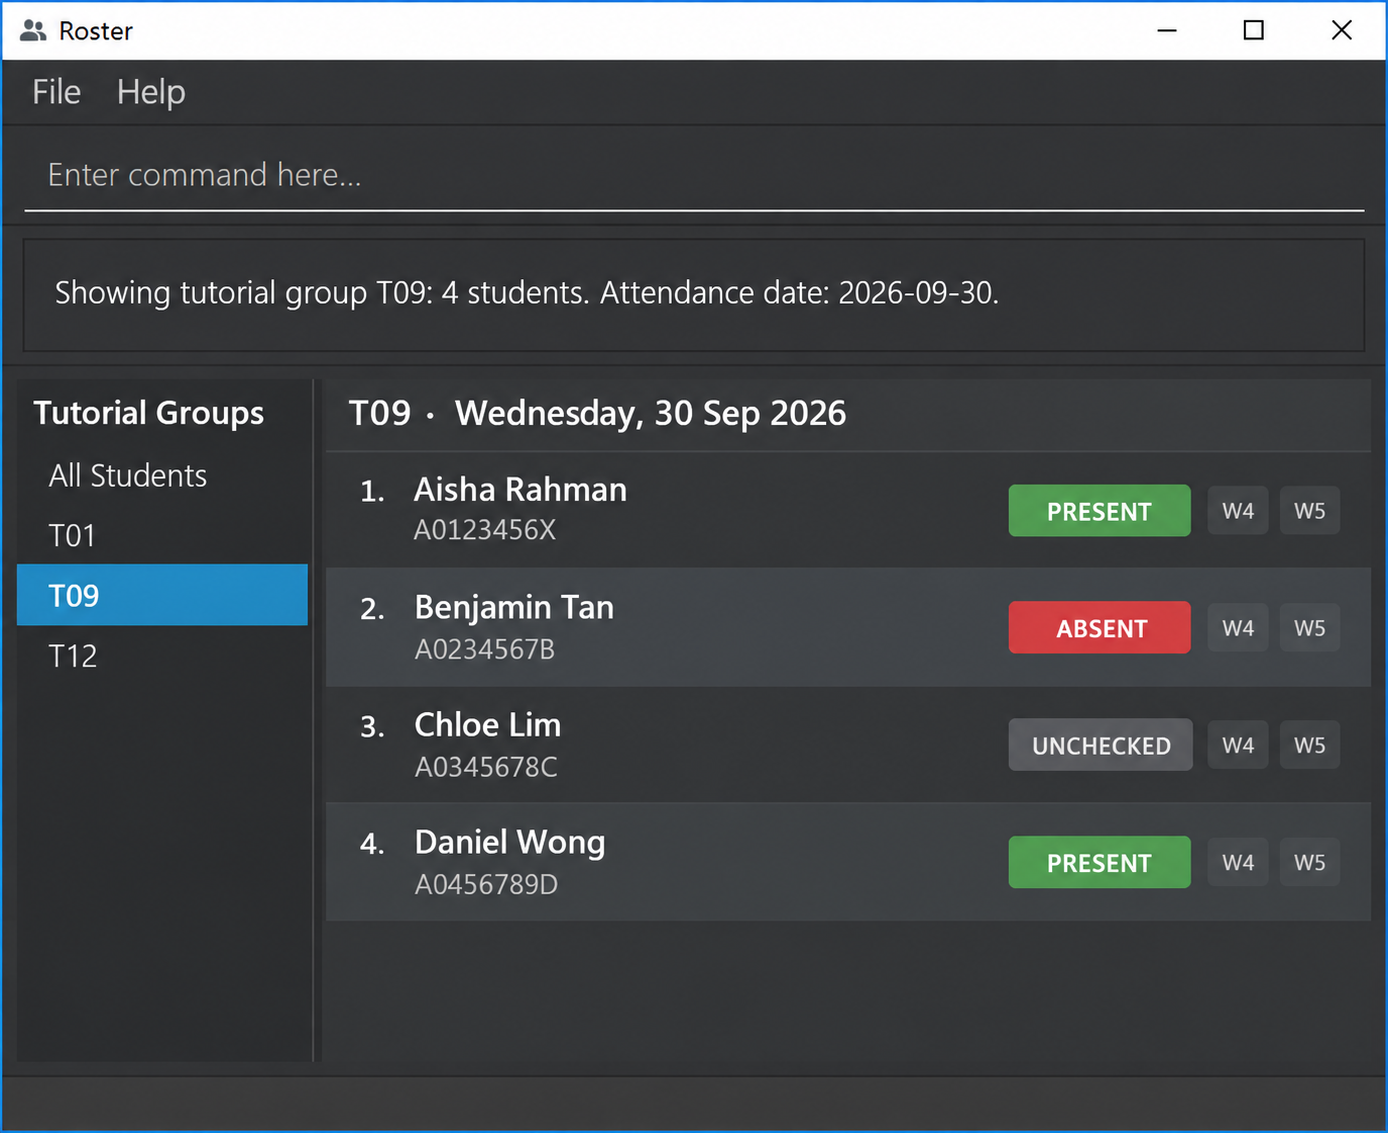
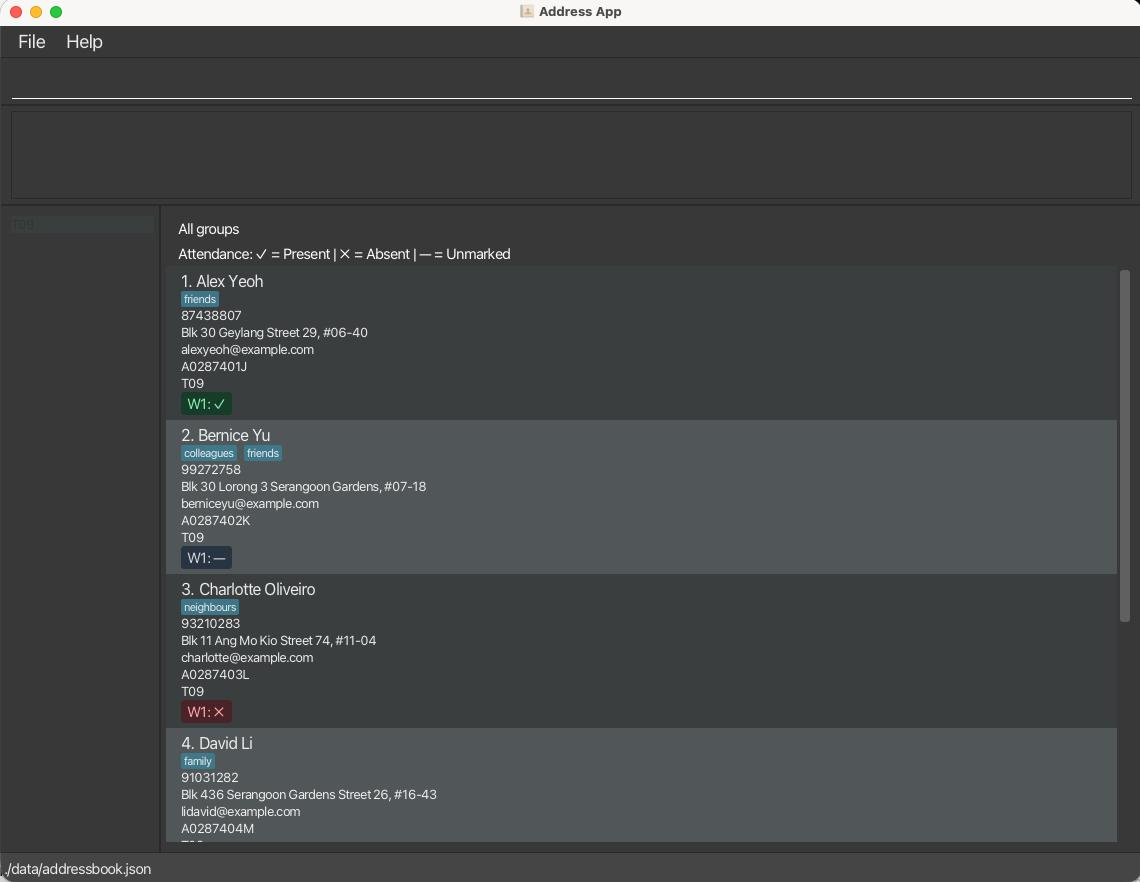
Fix User Guide command documentation and update UI screenshot

diff --git a/docs/UserGuide.md b/docs/UserGuide.md
@@ -19,7 +19,7 @@ Roster is a **desktop application for NUS teaching assistants to manage students
 
 1. Copy the file to the folder you want to use as Roster's _home folder_.
 
-1. Open a terminal, `cd` to the folder containing the JAR file, and run `java -jar addressbook.jar`.<br>
+1. Open a terminal, `cd` to the folder containing the JAR file, and run `java -jar roster.jar`.<br>
    A GUI similar to the one below should appear in a few seconds. Roster includes sample data on its first launch.<br>
    ![Roster user interface](images/Ui.png)
 
@@ -28,7 +28,7 @@ Roster is a **desktop application for NUS teaching assistants to manage students
 1. Try this typical attendance workflow:
 
    * `init grp/T09` : Creates tutorial group `T09`.
-   * `add n/Alex Tan m/A0123456X grp/T09 e/alex.tan@example.com` : Adds Alex Tan to `T09`.
+   * `add n/Alex Tan p/12345678 e/alex.tan@example.com a/Kent Ridge m/A0123456X grp/T09` : Adds Alex Tan to `T09`.
    * `session grp/T09 w/5 d/2026-09-15` : Creates the week 5 session for `T09`.
    * `list grp/T09` : Shows the students in `T09` and makes it the active group.
    * `mark 1 w/5 s/present` : Marks the first displayed student present for week 5.
@@ -49,8 +49,8 @@ A session records that a tutorial group met during a particular teaching week an
 
 For each session in a student's tutorial group, their attendance is one of three states:
 
-* **Present (`P`)**: The student has been marked present.
-* **Absent (`A`)**: The student has been marked absent.
+* **Present (`✓`)**: The student has been marked present.
+* **Absent (`✗`)**: The student has been marked absent.
 * **Unmarked (`—`)**: No attendance has been recorded yet. Unmarked is kept separate from absent so unfinished attendance is not mistaken for a confirmed absence.
 
 Creating a session does not automatically mark any student. A student added after sessions have been created is also unmarked for those earlier sessions.
@@ -98,9 +98,12 @@ The MVP does not support returning a recorded status to unmarked. You can, howev
 Parameter | Accepted value
 ----------|---------------
 `grp/GROUP` | One or two letters followed by two digits, e.g. `T09` or `TG01`. Surrounding spaces are removed and letters are converted to uppercase.
-`n/NAME` | 1–60 characters. Letters, spaces, hyphens, apostrophes and full stops only; must begin with a letter. Surrounding spaces are removed, repeated spaces become one space, and letter case is preserved.
+`n/NAME` | 1–70 characters. Letters, spaces, hyphens and apostrophes only; must begin and end with a letter. Surrounding spaces are removed, repeated spaces become one space, and letter case is preserved.
+`p/PHONE` | At least three digits, with no spaces or other characters.
 `m/MATRIC` | `A`, followed by seven digits and one letter, e.g. `A0287654J`. Surrounding spaces are removed and letters are converted to uppercase.
 `e/EMAIL` | A valid email address such as `alex.tan@example.com`. Surrounding spaces are removed and the address is converted to lowercase.
+`a/ADDRESS` | Any non-blank text.
+`t/TAG` | One or more letters or digits, with no spaces or other characters. Repeat `t/` to give a student multiple tags.
 `w/WEEK` | A whole number from `1` to `13`, without a leading zero.
 `d/DATE` | A real calendar date in `YYYY-MM-DD` format.
 `s/STATUS` | `present` or `absent`, case-insensitive.
@@ -148,20 +151,17 @@ On success, Roster displays a confirmation such as `Created session: T09 week 5 
 
 Adds a student to an existing tutorial group. The student is unmarked for every existing session in that group.
 
-Format: `add n/NAME m/MATRIC grp/GROUP e/EMAIL`
+Format: `add n/NAME p/PHONE e/EMAIL a/ADDRESS m/MATRIC grp/GROUP [t/TAG]...`
 
 Examples:
 
-* `add n/Alex Tan m/A0123456X grp/T09 e/alex.tan@example.com`
+* `add n/Alex Tan p/12345678 e/alex.tan@example.com a/Kent Ridge m/A0123456X grp/T09`
 * The tutorial group must already exist.
 * Matriculation numbers and email addresses must be unique across all tutorial groups.
 * Names do not need to be unique because different students may share a name.
 
 On success, Roster displays a confirmation such as `Added Alex Tan (A0123456X) to tutorial group T09.`
 
-<div markdown="span" class="alert alert-info">:information_source: **Editing student details:**
-The `edit` command is not part of the MVP. To correct a student's details, delete the student and add them again. Deleting a student also deletes all of their attendance records.
-</div>
 
 ### Listing students: `list`
 
@@ -262,7 +262,7 @@ Examples:
 * `STATUS` must be either `present` or `absent`, case-insensitive.
 * Marking an already marked student replaces the earlier status and reports the previous value.
 * The displayed list and its indexes stay unchanged after a successful mark.
-* The updated attendance cell changes to `P` or `A` and is briefly highlighted.
+* The updated attendance cell changes to `✓` or `✗` and is briefly highlighted.
 * Marking never creates a missing session. When the displayed list contains multiple groups, Roster looks up the teaching week in each selected student's own group.
 
 On success, Roster names the student, status, tutorial group, and teaching week so you can verify the updated record.
@@ -276,6 +276,16 @@ Run `list grp/GROUP` before taking attendance so only that tutorial group's stud
 Exits the application.
 
 Format: `exit`
+
+### Clearing all data: `clear`
+
+Deletes every student, tutorial group, session and attendance record.
+
+Format: `clear`
+
+<div markdown="span" class="alert alert-warning">:exclamation: **Caution:**
+Clearing happens immediately, with no confirmation and no undo. Back up `data/addressbook.json` first if you may need to restore the data.
+</div>
 
 ### Saving data
 
@@ -298,7 +308,7 @@ Manual edits can also produce unexpected behavior if values do not follow Roster
 **A**: Install Roster on the other computer and replace its `data/addressbook.json` file with the file from your previous Roster home folder.
 
 **Q**: How do I correct a student's details?<br>
-**A**: The MVP does not include `edit`. Delete the student and add them again. Note that deleting the student also removes all of their attendance records.
+**A**: Use `edit INDEX` followed by the fields to change, for example `edit 1 e/alex.tan@example.com`.
 
 **Q**: How do I switch between tutorial groups?<br>
 **A**: Use `list grp/GROUP`, for example `list grp/T09`. There is no separate switch command.
@@ -322,9 +332,11 @@ Action | Format, example
 **Help** | `help`
 **Create tutorial group** | `init grp/GROUP`<br>e.g. `init grp/T09`
 **Create session** | `session grp/GROUP w/WEEK d/DATE`<br>e.g. `session grp/T09 w/5 d/2026-09-15`
-**Add student** | `add n/NAME m/MATRIC grp/GROUP e/EMAIL`<br>e.g. `add n/Alex Tan m/A0123456X grp/T09 e/alex.tan@example.com`
+**Add student** | `add n/NAME p/PHONE e/EMAIL a/ADDRESS m/MATRIC grp/GROUP [t/TAG]...`<br>e.g. `add n/Alex Tan p/12345678 e/alex.tan@example.com a/Kent Ridge m/A0123456X grp/T09`
+**Edit student** | `edit INDEX [n/NAME] [p/PHONE] [e/EMAIL] [a/ADDRESS] [m/MATRIC] [grp/GROUP] [t/TAG]...`<br>e.g. `edit 1 e/alex.tan@example.com`
 **List students** | `list [grp/GROUP]`<br>e.g. `list grp/T09`
 **Find students** | `find n/KEYWORD`<br>e.g. `find n/John Tan`
 **Delete student** | `delete INDEX`<br>e.g. `delete 3`
 **Mark attendance** | `mark INDEX w/WEEK s/STATUS`<br>e.g. `mark 3 w/5 s/present`
 **Exit** | `exit`
+**Clear all data** | `clear`
